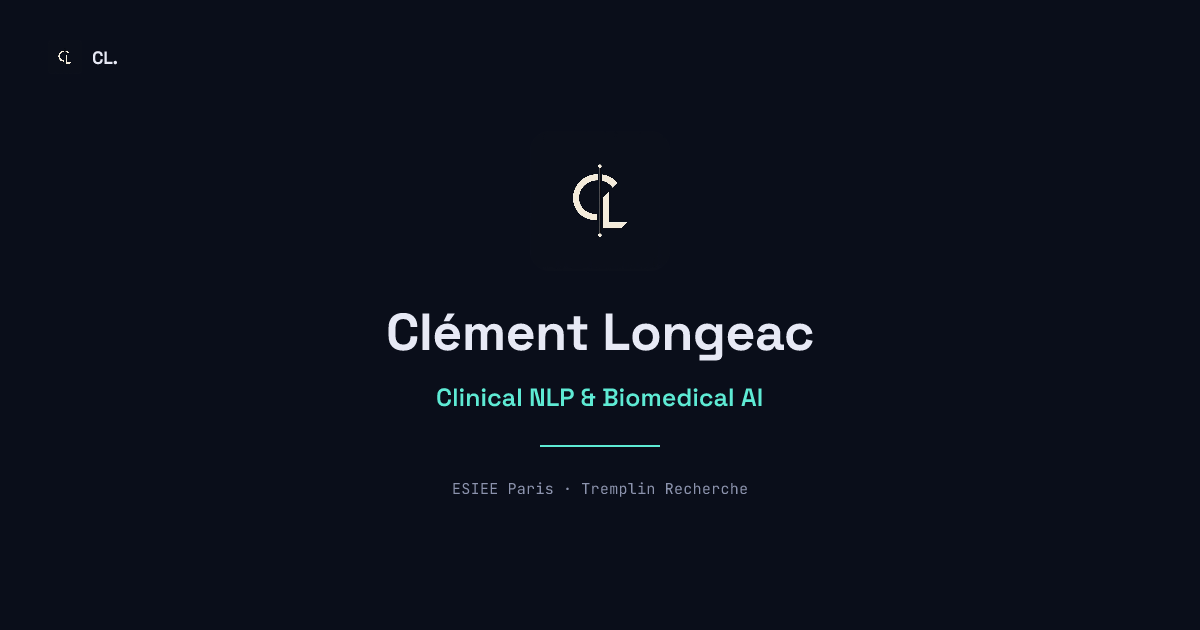
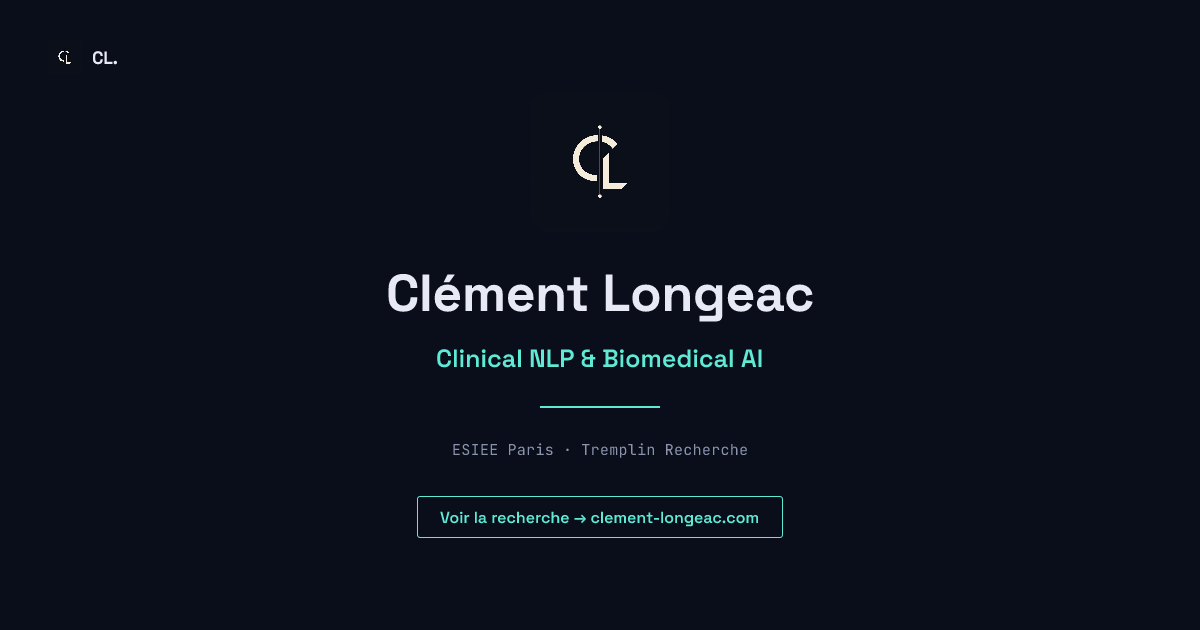
add OG image CTA and theme-color
Titles and descriptions across all 20 locales exceeded Google's
~60/~155 char truncation limits; shortened all of them. Added a
call-to-action button to the OG image and a theme-color meta tag,
both flagged by a social-preview inspector.

diff --git a/src/lib/dictionaries.ts b/src/lib/dictionaries.ts
@@ -106,7 +106,7 @@ const en: Dictionary = {
   meta: {
     title: 'Clément Longeac — AI Research, Clinical NLP & Biomedical AI',
     description:
-      'Research in clinical NLP and biomedical AI. Engineering student at ESIEE Paris, Data Science & AI track, Tremplin Recherche program. Heading toward a PhD in AI applied to biomedical research.',
+      'Clinical NLP & biomedical AI researcher at ESIEE Paris, building toward a PhD in AI for biomedical research.',
   },
   nav: {
     about: 'About',
@@ -284,9 +284,9 @@ const en: Dictionary = {
 const fr: Dictionary = {
   htmlLang: 'fr',
   meta: {
-    title: 'Clément Longeac — Recherche IA, NLP clinique & IA biomédicale',
+    title: 'Clément Longeac — NLP clinique & IA biomédicale',
     description:
-      'Recherche en NLP clinique et IA biomédicale. Ingénieur ESIEE Paris, spécialisation Data Science & IA, programme Tremplin Recherche. Vers un doctorat en IA appliquée à la recherche biomédicale.',
+      'Recherche en NLP clinique et IA biomédicale à ESIEE Paris, en route vers un doctorat en IA biomédicale.',
   },
   nav: {
     about: 'À propos',
@@ -464,9 +464,9 @@ const fr: Dictionary = {
 const es: Dictionary = {
   htmlLang: 'es',
   meta: {
-    title: 'Clément Longeac — Investigación en IA, PLN clínico e IA biomédica',
+    title: 'Clément Longeac — NLP clínico e IA biomédica',
     description:
-      'Investigación en PLN clínico e IA biomédica. Estudiante de ingeniería en ESIEE Paris, especialización Data Science & IA, programa Tremplin Recherche. Camino hacia un doctorado en IA aplicada a la investigación biomédica.',
+      'Investigación en PLN clínico e IA biomédica en ESIEE Paris, rumbo a un doctorado en IA biomédica.',
   },
   nav: {
     about: 'Sobre mí',
@@ -586,9 +586,9 @@ const es: Dictionary = {
 const de: Dictionary = {
   htmlLang: 'de',
   meta: {
-    title: 'Clément Longeac — KI-Forschung, klinisches NLP & biomedizinische KI',
+    title: 'Clément Longeac — klinisches NLP & biomedizinische KI',
     description:
-      'Forschung im Bereich klinisches NLP und biomedizinische KI. Ingenieurstudent an der ESIEE Paris, Schwerpunkt Data Science & KI, Programm Tremplin Recherche. Auf dem Weg zu einer Promotion in KI angewandt auf biomedizinische Forschung.',
+      'Forschung zu klinischem NLP und biomedizinischer KI an der ESIEE Paris, auf dem Weg zur Promotion.',
   },
   nav: {
     about: 'Über mich',
@@ -708,9 +708,9 @@ const de: Dictionary = {
 const it: Dictionary = {
   htmlLang: 'it',
   meta: {
-    title: 'Clément Longeac — Ricerca IA, NLP clinico e IA biomedica',
+    title: 'Clément Longeac — NLP clinico e IA biomedica',
     description:
-      'Ricerca in NLP clinico e IA biomedica. Studente di ingegneria a ESIEE Paris, specializzazione Data Science & IA, programma Tremplin Recherche. Verso un dottorato in IA applicata alla ricerca biomedica.',
+      'Ricerca in NLP clinico e IA biomedica a ESIEE Paris, verso un dottorato in IA biomedica.',
   },
   nav: {
     about: 'Chi sono',
@@ -830,9 +830,9 @@ const it: Dictionary = {
 const pt: Dictionary = {
   htmlLang: 'pt',
   meta: {
-    title: 'Clément Longeac — Pesquisa em IA, PLN clínico e IA biomédica',
+    title: 'Clément Longeac — PLN clínico e IA biomédica',
     description:
-      'Pesquisa em PLN clínico e IA biomédica. Estudante de engenharia na ESIEE Paris, especialização em Data Science & IA, programa Tremplin Recherche. A caminho de um doutorado em IA aplicada à pesquisa biomédica.',
+      'Pesquisa em PLN clínico e IA biomédica na ESIEE Paris, rumo a um doutorado em IA biomédica.',
   },
   nav: {
     about: 'Sobre mim',
@@ -952,9 +952,9 @@ const pt: Dictionary = {
 const nl: Dictionary = {
   htmlLang: 'nl',
   meta: {
-    title: 'Clément Longeac — AI-onderzoek, klinische NLP & biomedische AI',
+    title: 'Clément Longeac — klinische NLP & biomedische AI',
     description:
-      'Onderzoek in klinische NLP en biomedische AI. Ingenieursstudent aan ESIEE Paris, specialisatie Data Science & AI, Tremplin Recherche-programma. Op weg naar een PhD in AI toegepast op biomedisch onderzoek.',
+      'Onderzoek in klinische NLP en biomedische AI aan ESIEE Paris, op weg naar een PhD.',
   },
   nav: {
     about: 'Over mij',
@@ -1076,7 +1076,7 @@ const zh: Dictionary = {
   meta: {
     title: 'Clément Longeac — 人工智能研究、临床自然语言处理与生物医学人工智能',
     description:
-      '临床自然语言处理与生物医学人工智能研究。巴黎ESIEE工程学院学生，专攻数据科学与人工智能，参加Tremplin Recherche科研项目,目标是攻读应用于生物医学研究的人工智能博士学位。',
+      '临床自然语言处理与生物医学人工智能研究，就读于巴黎ESIEE工程学院，目标是攻读生物医学人工智能博士。',
   },
   nav: {
     about: '关于我',
@@ -1198,7 +1198,7 @@ const ja: Dictionary = {
   meta: {
     title: 'Clément Longeac — AI研究、臨床NLP・生物医学AI',
     description:
-      '臨床NLPと生物医学AIの研究。パリESIEE工科大学の学生、データサイエンス・AI専攻、Tremplin Recherche研究プログラム所属。生物医学研究に応用するAIの博士号取得を目指しています。',
+      '臨床NLPと生物医学AIの研究。パリESIEE工科大学に在籍し、生物医学AIの博士号取得を目指しています。',
   },
   nav: {
     about: 'プロフィール',
@@ -1320,7 +1320,7 @@ const ko: Dictionary = {
   meta: {
     title: 'Clément Longeac — AI 연구, 임상 NLP 및 생물의학 AI',
     description:
-      '임상 NLP 및 생물의학 AI 연구. 파리 ESIEE 공과대학 학생, 데이터 사이언스 & AI 전공, Tremplin Recherche 연구 프로그램 소속. 생물의학 연구에 응용되는 AI 박사 학위를 목표로 하고 있습니다.',
+      '임상 NLP와 생물의학 AI 연구자. 파리 ESIEE 공과대학 재학 중이며 생물의학 AI 박사 학위를 목표로 합니다.',
   },
   nav: {
     about: '소개',
@@ -1440,9 +1440,9 @@ const ko: Dictionary = {
 const ru: Dictionary = {
   htmlLang: 'ru',
   meta: {
-    title: 'Clément Longeac — исследования ИИ, клинический NLP и биомедицинский ИИ',
+    title: 'Clément Longeac — клинический NLP и биомедицинский ИИ',
     description:
-      'Исследования в области клинического NLP и биомедицинского ИИ. Студент-инженер ESIEE Paris, специализация Data Science & AI, программа Tremplin Recherche. На пути к докторской степени в области ИИ, применяемого в биомедицинских исследованиях.',
+      'Исследования в области клинического NLP и биомедицинского ИИ в ESIEE Paris, на пути к докторантуре.',
   },
   nav: {
     about: 'Обо мне',
@@ -1562,9 +1562,9 @@ const ru: Dictionary = {
 const ar: Dictionary = {
   htmlLang: 'ar',
   meta: {
-    title: 'Clément Longeac — أبحاث الذكاء الاصطناعي، معالجة اللغة السريرية والذكاء الاصطناعي الحيوي الطبي',
+    title: 'Clément Longeac — NLP سريري وذكاء اصطناعي طبي',
     description:
-      'أبحاث في معالجة اللغة الطبيعية السريرية والذكاء الاصطناعي الحيوي الطبي. طالب هندسة في ESIEE Paris، تخصص علوم البيانات والذكاء الاصطناعي، برنامج Tremplin Recherche. في طريقي لنيل درجة الدكتوراه في الذكاء الاصطناعي المطبق على البحث الطبي الحيوي.',
+      'أبحاث في معالجة اللغة السريرية والذكاء الاصطناعي الطبي في ESIEE Paris، في طريقي لنيل الدكتوراه.',
   },
   nav: {
     about: 'نبذة عني',
@@ -1684,9 +1684,9 @@ const ar: Dictionary = {
 const hi: Dictionary = {
   htmlLang: 'hi',
   meta: {
-    title: 'Clément Longeac — एआई अनुसंधान, क्लिनिकल एनएलपी और बायोमेडिकल एआई',
+    title: 'Clément Longeac — क्लिनिकल NLP और बायोमेडिकल AI',
     description:
-      'क्लिनिकल एनएलपी और बायोमेडिकल एआई में अनुसंधान। ESIEE Paris में इंजीनियरिंग छात्र, डेटा साइंस एवं एआई विशेषज्ञता, Tremplin Recherche कार्यक्रम। बायोमेडिकल शोध में लागू एआई पर पीएचडी की दिशा में अग्रसर।',
+      'ESIEE Paris में क्लिनिकल NLP और बायोमेडिकल AI पर शोध, पीएचडी की दिशा में अग्रसर।',
   },
   nav: {
     about: 'मेरे बारे में',
@@ -1806,9 +1806,9 @@ const hi: Dictionary = {
 const tr: Dictionary = {
   htmlLang: 'tr',
   meta: {
-    title: 'Clément Longeac — Yapay Zeka Araştırması, Klinik NLP ve Biyomedikal Yapay Zeka',
+    title: 'Clément Longeac — Klinik NLP ve Biyomedikal AI',
     description:
-      'Klinik NLP ve biyomedikal yapay zeka alanında araştırma. ESIEE Paris\'te mühendislik öğrencisi, Veri Bilimi & Yapay Zeka uzmanlığı, Tremplin Recherche programı. Biyomedikal araştırmaya uygulanan yapay zeka alanında doktora hedefliyor.',
+      'ESIEE Paris\'te klinik NLP ve biyomedikal AI araştırması, doktoraya giden yolda.',
   },
   nav: {
     about: 'Hakkımda',
@@ -1930,7 +1930,7 @@ const pl: Dictionary = {
   meta: {
     title: 'Clément Longeac — Badania AI, kliniczne NLP i biomedyczna AI',
     description:
-      'Badania w zakresie klinicznego NLP i biomedycznej AI. Student inżynierii w ESIEE Paris, specjalizacja Data Science & AI, program Tremplin Recherche. W drodze do doktoratu z AI stosowanej w badaniach biomedycznych.',
+      'Badania w klinicznym NLP i biomedycznej AI w ESIEE Paris, w drodze do doktoratu.',
   },
   nav: {
     about: 'O mnie',
@@ -2052,7 +2052,7 @@ const vi: Dictionary = {
   meta: {
     title: 'Clément Longeac — Nghiên cứu AI, NLP lâm sàng và AI y sinh',
     description:
-      'Nghiên cứu về NLP lâm sàng và AI y sinh. Sinh viên kỹ thuật tại ESIEE Paris, chuyên ngành Khoa học Dữ liệu & AI, chương trình Tremplin Recherche. Hướng tới bằng tiến sĩ về AI ứng dụng trong nghiên cứu y sinh.',
+      'Nghiên cứu NLP lâm sàng và AI y sinh tại ESIEE Paris, hướng tới bằng tiến sĩ.',
   },
   nav: {
     about: 'Giới thiệu',
@@ -2174,7 +2174,7 @@ const id: Dictionary = {
   meta: {
     title: 'Clément Longeac — Riset AI, NLP Klinis & AI Biomedis',
     description:
-      'Riset dalam NLP klinis dan AI biomedis. Mahasiswa teknik di ESIEE Paris, spesialisasi Data Science & AI, program Tremplin Recherche. Menuju gelar PhD dalam AI yang diterapkan pada riset biomedis.',
+      'Riset NLP klinis dan AI biomedis di ESIEE Paris, menuju gelar PhD.',
   },
   nav: {
     about: 'Tentang saya',
@@ -2294,9 +2294,9 @@ const id: Dictionary = {
 const sv: Dictionary = {
   htmlLang: 'sv',
   meta: {
-    title: 'Clément Longeac — AI-forskning, klinisk NLP och biomedicinsk AI',
+    title: 'Clément Longeac — klinisk NLP & biomedicinsk AI',
     description:
-      'Forskning inom klinisk NLP och biomedicinsk AI. Ingenjörsstudent vid ESIEE Paris, inriktning Data Science & AI, programmet Tremplin Recherche. På väg mot en doktorsexamen i AI tillämpad på biomedicinsk forskning.',
+      'Forskning i klinisk NLP och biomedicinsk AI vid ESIEE Paris, på väg mot en doktorsexamen.',
   },
   nav: {
     about: 'Om mig',
@@ -2416,9 +2416,9 @@ const sv: Dictionary = {
 const uk: Dictionary = {
   htmlLang: 'uk',
   meta: {
-    title: 'Clément Longeac — дослідження ШІ, клінічний NLP та біомедичний ШІ',
+    title: 'Clément Longeac — клінічний NLP та біомедичний ШІ',
     description:
-      'Дослідження у сфері клінічного NLP та біомедичного ШІ. Студент-інженер ESIEE Paris, спеціалізація Data Science & AI, програма Tremplin Recherche. На шляху до докторського ступеня зі ШІ, застосованого в біомедичних дослідженнях.',
+      'Дослідження клінічного NLP та біомедичного ШІ в ESIEE Paris, на шляху до докторантури.',
   },
   nav: {
     about: 'Про мене',
@@ -2538,9 +2538,9 @@ const uk: Dictionary = {
 const th: Dictionary = {
   htmlLang: 'th',
   meta: {
-    title: 'Clément Longeac — งานวิจัย AI, NLP ทางคลินิก และ AI ชีวการแพทย์',
+    title: 'Clément Longeac — NLP ทางคลินิกและ AI ชีวการแพทย์',
     description:
-      'งานวิจัยด้าน NLP ทางคลินิกและ AI ชีวการแพทย์ นักศึกษาวิศวกรรมที่ ESIEE Paris สาขา Data Science & AI โปรแกรม Tremplin Recherche กำลังมุ่งสู่ปริญญาเอกด้าน AI ที่ประยุกต์ใช้กับงานวิจัยชีวการแพทย์',
+      'งานวิจัยด้าน NLP ทางคลินิกและ AI ชีวการแพทย์ที่ ESIEE Paris มุ่งสู่ปริญญาเอก',
   },
   nav: {
     about: 'เกี่ยวกับฉัน',

diff --git a/src/app/layout.tsx b/src/app/layout.tsx
@@ -63,6 +63,7 @@ export default function RootLayout({ children }: { children: React.ReactNode }) 
         <link rel="apple-touch-icon" sizes="180x180" href="/apple-touch-icon.png" />
         <meta name="apple-mobile-web-app-title" content="Clément Longeac" />
         <link rel="manifest" href="/site.webmanifest" />
+        <meta name="theme-color" content="#0A0E1A" />
         <link rel="preconnect" href="https://fonts.googleapis.com" />
         <link rel="preconnect" href="https://fonts.gstatic.com" crossOrigin="anonymous" />
         <link
